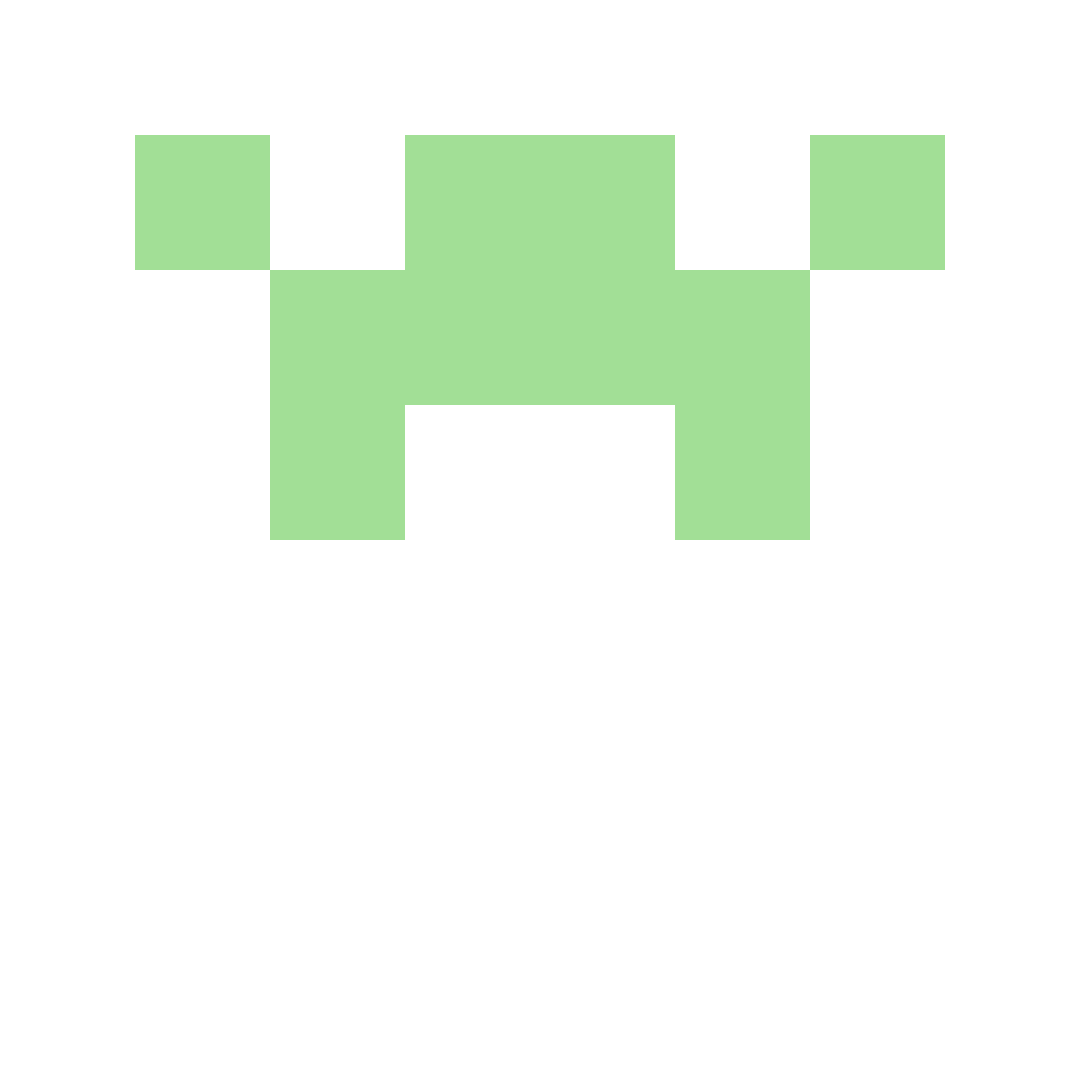
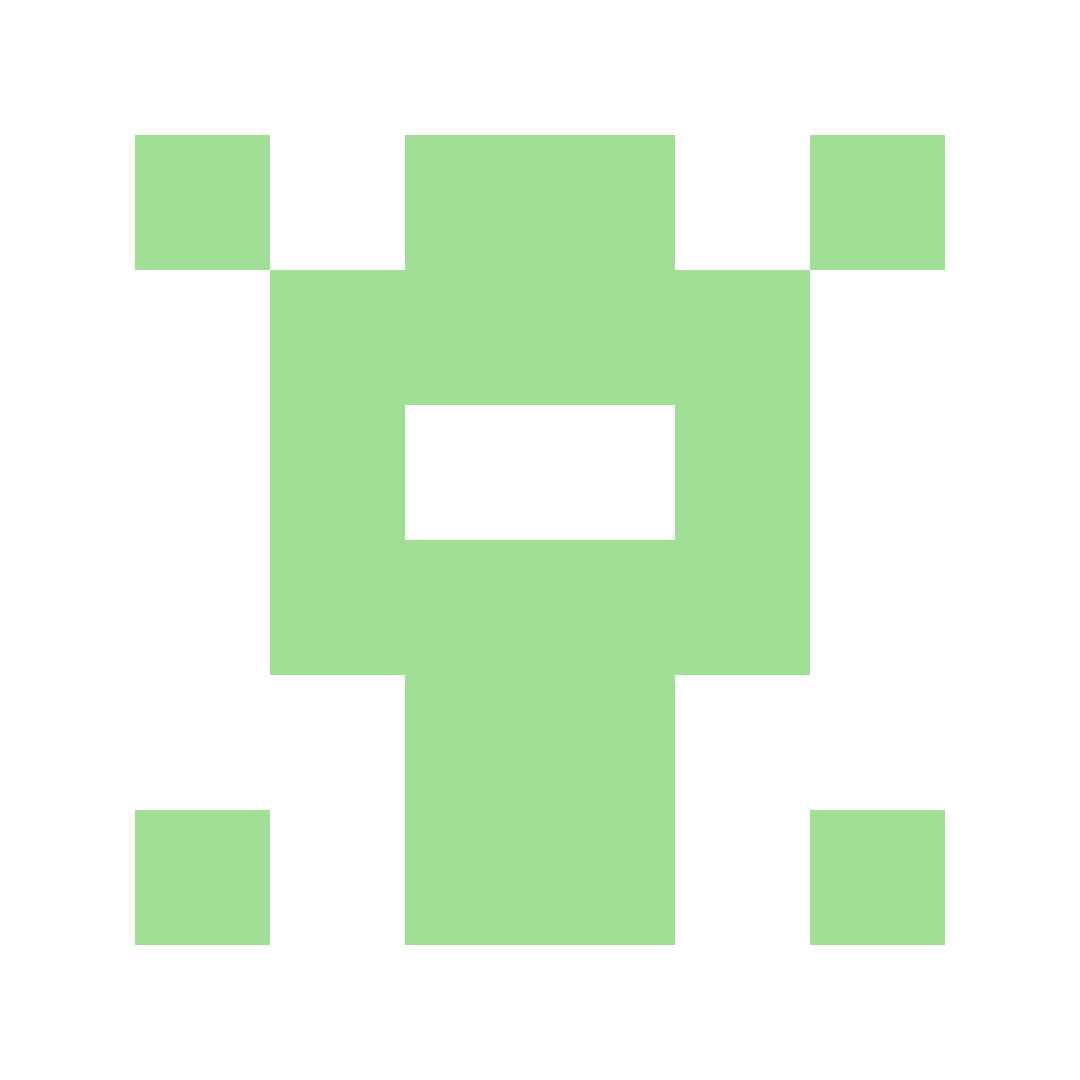
Исправить логику генерации паттерна и обновить примеры

Changed region(s): [[0.2444, 0.4889, 0.7639, 0.8861], [0.7333, 0.7333, 0.8861, 0.8861], [0.1222, 0.7333, 0.275, 0.8861]]

diff --git a/PAG/AvatarGenerator.cs b/PAG/AvatarGenerator.cs
@@ -110,7 +110,9 @@ namespace PAG
             string bits = "";
             for (int i = 0; i < inside_size; i++)
             {
-                int bit = (bytes[0] >> i) & 1;
+                int byteIndex = i / 8;
+                int bitIndex = i % 8;
+                int bit = (bytes[byteIndex] >> bitIndex) & 1;
                 bits += bit;
             }
 
